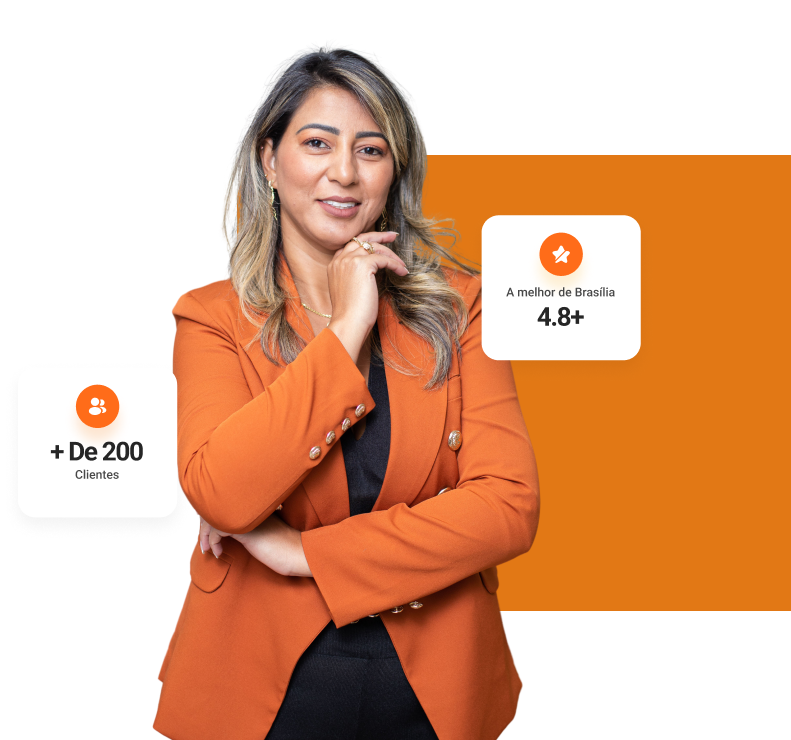
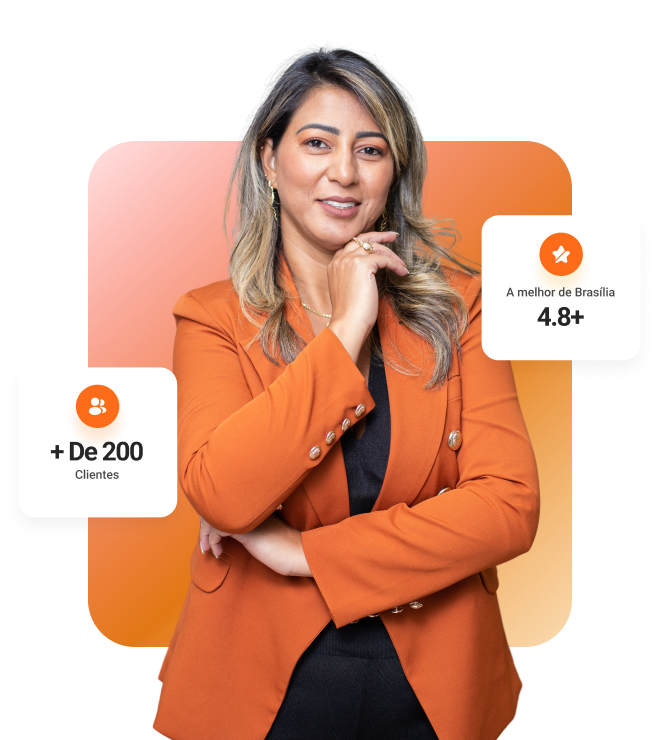
ajuste img principal

diff --git a/style.css b/style.css
@@ -129,14 +129,16 @@
   .section-um {
     display: flex;
     align-items: center;
-    justify-content: space-between;
-    padding-left: 250px;
+    justify-content: center;
+    padding-left: 0;
+    gap: 300px;
   }
 
   .img-principal {
     background-repeat: no-repeat;
     background-position: right;
   }
+  
 
   .titulo-um {
     color: #FF6C19;
@@ -662,6 +664,7 @@
       align-items: center;
       padding-left: 0;
       padding-top: 80px;
+      gap: 0;
     }
 
     .titulo-um {
@@ -711,7 +714,7 @@
       width: 100%;
       height: auto;
       text-align: center;
-      padding-left: 50px;
+      padding-left: 20px;
     }
 
     .section-dois {
